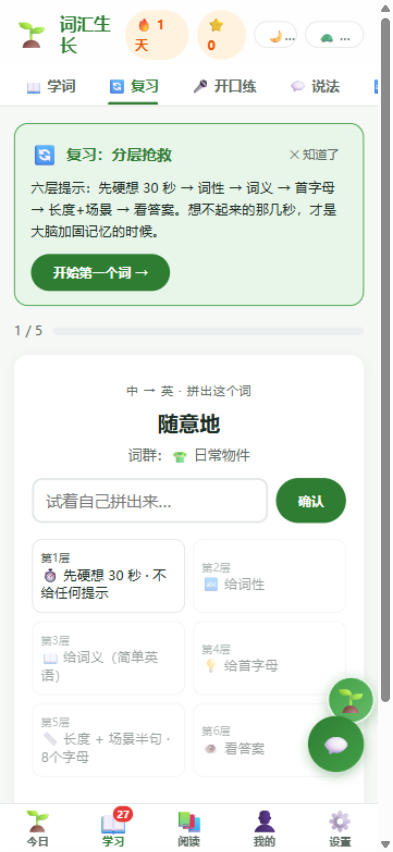
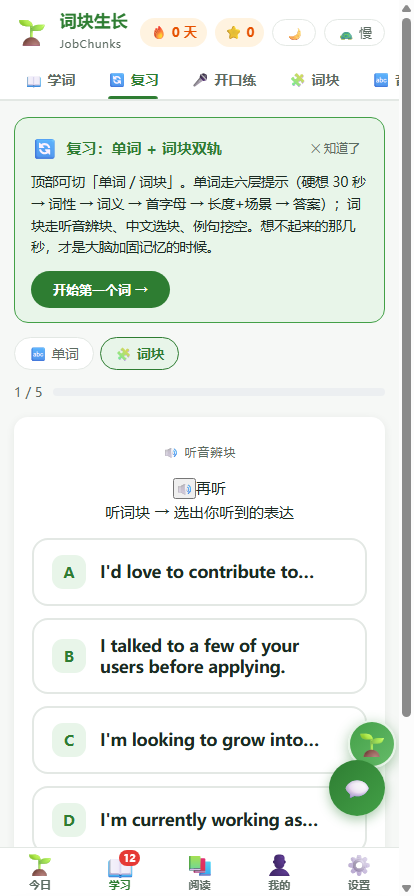
官网同步：更名词块生长 JobChunks + 新定位文案（JD分析器/AI面试官/词块库）+ 4张新UI实拍截图；应用内 onboard 副标语与 mock 词块超量兜底

diff --git a/www/index.html b/www/index.html
@@ -3,10 +3,10 @@
 <head>
   <meta charset="UTF-8">
   <meta name="viewport" content="width=device-width, initial-scale=1.0">
-  <title>词汇生长 Vocabulary Growth — 不背单词，让单词长出来</title>
-  <meta name="description" content="为想开口说英语的成人设计的词汇生长系统：学·复·用·读 四步闭环。分层抢救复习、开口练 AI 评分、真实阅读点词收词。数据全程留在你手机里，完全免费，无广告。">
-  <meta property="og:title" content="词汇生长 — 不背单词，让单词长出来">
-  <meta property="og:description" content="学·复·用·读 四步闭环，AI 学伴陪练，数据全程本地。安卓 APK / 浏览器即用。">
+  <title>词块生长 JobChunks — 不背单词，背词块 · 为下一份英语工作做准备</title>
+  <meta name="description" content="词块生长 JobChunks：以真实岗位JD为目标的职场英语训练系统。480 条职场词块（面试突围/跨境电商/出海业务）、JD 分析器、AI 模拟面试官、词块 SRS 复习。数据全程留在你手机里，完全免费，无广告。">
+  <meta property="og:title" content="词块生长 JobChunks — 不背单词，背词块">
+  <meta property="og:description" content="为下一份英语工作做准备：职场词块库 · JD 分析器 · AI 模拟面试官 · 词块 SRS 复习。安卓 APK / 浏览器即用，数据全程本地。">
   <meta property="og:type" content="website">
   <link rel="icon" type="image/x-icon" href="../favicon.ico">
   <link rel="icon" type="image/png" href="../assets/icons/icon-192.png">
@@ -16,7 +16,7 @@
   <!-- 顶部导航 -->
   <header class="nav">
     <div class="nav-inner">
-      <a class="logo" href="index.html"><span class="logo-ic">🌱</span> 词汇生长</a>
+      <a class="logo" href="index.html"><span class="logo-ic">🌱</span> 词块生长 JobChunks</a>
       <nav class="nav-links">
         <a href="#method">方法</a>
         <a href="#features">功能</a>
@@ -32,18 +32,18 @@
     <div class="wrap hero-grid">
       <div class="hero-tx">
         <div class="hero-badge">安卓 APK · 浏览器即用 · 完全免费</div>
-        <h1>不背单词，<br>让单词<span class="accent">长</span>出来</h1>
-        <p class="hero-sub">为想开口说英语的成人设计的词汇生长系统：学 · 复 · 用 · 读 四步闭环。每一次"想不起来"，都是大脑在加固记忆。</p>
+        <h1>不背单词，<br>背<span class="accent">词块</span>——为下一份英语工作做准备</h1>
+        <p class="hero-sub">词块生长 JobChunks：以真实招聘岗位为目标的职场英语训练系统。面试官问什么、邮件里写什么、会上说什么，就练什么——练到能听懂、看懂、说出来。</p>
         <div class="hero-cta">
           <a class="btn btn-primary btn-lg" href="download.html">📥 下载安卓应用</a>
           <a class="btn btn-outline btn-lg" href="../index.html" target="_blank" rel="noopener">🌐 浏览器直接打开</a>
         </div>
         <div class="hero-chips">
-          <span>✓ 数据本地</span><span>✓ 免费无广告</span><span>✓ 无需注册</span><span>✓ 8MB 轻量安装</span>
+          <span>✓ 数据本地</span><span>✓ 免费无广告</span><span>✓ 无需注册</span><span>✓ 480 职场词块</span>
         </div>
       </div>
       <div class="hero-img">
-        <img src="img/shot-today.png" alt="词汇生长今日仪表盘" loading="eager">
+        <img src="img/shot-chunks.png" alt="词块生长 JobChunks 职场词块库" loading="eager">
       </div>
     </div>
   </section>
@@ -51,12 +51,12 @@
   <!-- 2. 痛点 -->
   <section class="section pain">
     <div class="wrap">
-      <h2 class="sec-title">背单词的三座大山</h2>
+      <h2 class="sec-title">背了 8000 个单词，面试还是开不了口？</h2>
       <p class="sec-sub">如果这些你也经历过，那你找对地方了</p>
       <div class="grid-3">
-        <div class="card pain-card"><div class="pain-ic">😵</div><h3>背了就忘</h3><p>单词书背了 20 遍，见到还是"好像认识"。死记硬背对抗不了遗忘曲线。</p></div>
-        <div class="card pain-card"><div class="pain-ic">🤐</div><h3>认识不敢说</h3><p>阅读勉强过关，一开口就卡壳。词汇量是"认识"的，不是"会用"的。</p></div>
-        <div class="card pain-card"><div class="pain-ic">📉</div><h3>三天放弃</h3><p>打卡式产品靠愧疚感续命。没有正反馈的学习，注定坚持不下去。</p></div>
+        <div class="card pain-card"><div class="pain-ic">😵</div><h3>词是词，话是话</h3><p>单词书背了 20 遍，真到面试和邮件里，还是拼不出一句完整的地道表达。语言不是单词堆出来的，是词块装出来的。</p></div>
+        <div class="card pain-card"><div class="pain-ic">🤐</div><h3>英语面试发怵</h3><p>岗位写着"英语作为工作语言"，面试有英文口测——没人陪你练，也不知道练什么。对着镜子练一百遍，不如 AI 面试官陪你过五题。</p></div>
+        <div class="card pain-card"><div class="pain-ic">📉</div><h3>学了没方向</h3><p>不知道目标岗位到底需要什么英语。学的和考的脱节，越学越焦虑。其实答案就写在招聘 JD 里。</p></div>
       </div>
     </div>
   </section>
@@ -64,18 +64,18 @@
   <!-- 3. 方法论 -->
   <section class="section method" id="method">
     <div class="wrap">
-      <h2 class="sec-title">不背单词，那靠什么？</h2>
-      <p class="sec-sub">学 → 复 → 用 → 读，一个让单词自己扎根的闭环</p>
+      <h2 class="sec-title">方向 → 场景 → 任务 → 词块</h2>
+      <p class="sec-sub">以真实招聘画像为骨架，词块为原子的学习闭环：学 → 复 → 用 → 读</p>
       <div class="loop">
-        <div class="loop-step"><div class="loop-ic">📖</div><div class="loop-name">学</div><p>词群故事成串学，<br>图解主题贴近生活</p></div>
+        <div class="loop-step"><div class="loop-ic">🎯</div><div class="loop-name">定方向</div><p>面试突围 / 跨境电商 / 出海业务，<br>按目标岗位选赛道</p></div>
         <div class="loop-arrow">→</div>
-        <div class="loop-step"><div class="loop-ic">🔄</div><div class="loop-name">复</div><p>六层提示分层抢救，<br>想不起来的几秒在加固</p></div>
+        <div class="loop-step"><div class="loop-ic">🧩</div><div class="loop-name">背词块</div><p>场景里真实在用的多词表达，<br>例句+易错点+跟读，20条/场景</p></div>
         <div class="loop-arrow">→</div>
-        <div class="loop-step"><div class="loop-ic">🎤</div><div class="loop-name">用</div><p>造句、开口说出来，<br>AI 当场评分给纠正</p></div>
+        <div class="loop-step"><div class="loop-ic">🔄</div><div class="loop-name">练三关</div><p>听懂（听音辨块）·看懂（例句挖空）<br>·说出来（开口练评分）</p></div>
         <div class="loop-arrow">→</div>
-        <div class="loop-step"><div class="loop-ic">📚</div><div class="loop-name">读</div><p>真实书里遇见它，<br>点词收词带原句回炉</p></div>
+        <div class="loop-step"><div class="loop-ic">🎤</div><div class="loop-name">上考场</div><p>JD 分析器定制计划，<br>AI 面试官模拟实战出报告</p></div>
       </div>
-      <p class="method-note">整套产品的第一批学习数据，来自「英语自学建设系统」（Hermes）的真实自学资产——不是拍脑袋设计的功能清单。</p>
+      <p class="method-note">词块（Lexical Chunk）教学法有完整实证：词块记忆直接提升口语流利度与听力识别速度。整套产品的第一批学习数据来自「英语自学建设系统」（Hermes）真实自学资产——不是拍脑袋设计的功能清单。</p>
     </div>
   </section>
 
@@ -83,44 +83,44 @@
   <section class="section features" id="features">
     <div class="wrap">
       <h2 class="sec-title">核心功能</h2>
-      <p class="sec-sub">每一个功能，都对应闭环里的一环</p>
+      <p class="sec-sub">从选方向到拿 offer，每一环都有工具</p>
 
       <div class="feat-row">
         <div class="feat-tx">
-          <h3>🔄 六层分层抢救复习</h3>
-          <p>先硬想 30 秒 → 词性 → 词义 → 首字母 → 长度场景 → 答案，六层提示逐级解锁。按你"忘到第几层"安排下次复习时间——遗忘是数据，不是失败。还带听音辨词模式，耳朵也一起练。</p>
+          <h3>🎯 JD 分析器 · 贴 JD 出学习计划</h3>
+          <p>把目标岗位的 JD 贴进来，AI 拆出 10 条高频词块和 3 道面试考题，生成专属学习计划——"以招聘为目标"不是口号，是产品机制。词块一键收进说法库，配合造句练习形成闭环。</p>
         </div>
-        <div class="feat-img"><img src="img/shot-review.png" alt="六层分层抢救复习界面" loading="lazy"></div>
+        <div class="feat-img"><img src="img/shot-chunks.png" alt="JD 分析器与职场词块库" loading="lazy"></div>
       </div>
 
       <div class="feat-row rev">
         <div class="feat-tx">
-          <h3>🎤 开口练 · AI 当场评分</h3>
-          <p>四种练法：造句、句型填空、关键词造句、开口说。提交立刻打分，AI 给出更地道的说法和要点纠正——写错也是生产模式，敢说就赢了一半。</p>
+          <h3>🎤 AI 模拟面试官 · 5 题实战出报告</h3>
+          <p>5 道真题逐题作答，AI 面试官按切题度、词块使用、地道度打分点评，还给你"更地道的说法"。答完生成能力报告——面试前练三轮，上场不慌。你的 JD 考题会自动插入面试流程。</p>
         </div>
-        <div class="feat-img"><img src="img/shot-workshop.png" alt="开口练四种练法界面" loading="lazy"></div>
+        <div class="feat-img"><img src="img/shot-mock.png" alt="AI 模拟面试官界面" loading="lazy"></div>
       </div>
 
       <div class="feat-row">
         <div class="feat-tx">
-          <h3>📚 真实阅读 · 点词收词</h3>
-          <p>内置书虫系列等英文书，长按生词即出词义、发音和整句例句，一键收进词库带着原句复习。在真实语境里遇见的单词，才真正属于你。</p>
+          <h3>🧩 职场词块库 · 三方向 24 场景</h3>
+          <p>面试突围、跨境电商、出海业务三条赛道，每个场景 20 条真实岗位在用的词块：例句、中文、易错点、双发音。自测模式遮住例句，看中文回想——先听懂看懂，再说出来。</p>
         </div>
-        <div class="feat-img"><img src="img/shot-reader.png" alt="英文阅读器界面" loading="lazy"></div>
+        <div class="feat-img"><img src="img/shot-review.png" alt="词块复习界面" loading="lazy"></div>
       </div>
 
       <div class="feat-row rev">
         <div class="feat-tx">
-          <h3>🎯 今日仪表盘 · 一眼知道做什么</h3>
-          <p>今日目标四件事打卡、今日主题词群、今日一句跟读——每天 10 分钟，三件事加一次阅读就够。不靠打卡绑架，靠正反馈续命。</p>
+          <h3>🔄 单词+词块双轨 SRS 复习</h3>
+          <p>单词走六层分层抢救（硬想 30 秒 → 词性 → 词义 → 首字母 → 长度场景 → 答案），词块走听音辨块、中文选块、例句挖空三题型。连绿间隔自动拉长（3→7→14→30 天），记住的不打扰，忘了的天天见。</p>
         </div>
-        <div class="feat-img"><img src="img/shot-today.png" alt="今日目标仪表盘" loading="lazy"></div>
+        <div class="feat-img"><img src="img/shot-today.png" alt="复习与今日仪表盘" loading="lazy"></div>
       </div>
 
       <div class="grid-3 feat-more">
-        <div class="card"><div class="f-ic">🌱</div><h3>AI 学伴小苗</h3><p>免费大模型驱动：教词、陪聊、情景对话，还能给你出每周学习周报和学习计划。</p></div>
-        <div class="card"><div class="f-ic">📊</div><h3>词汇量测试</h3><p>2 分钟 30 题，基于牛津分级词库估算你的真实词汇量，乱猜可骗不过它。</p></div>
-        <div class="card"><div class="f-ic">💬</div><h3>说法库 + 48 音标</h3><p>"你想说的话 → 老外的说法"积累库，外加 48 音标口诀——发音地基一起打。</p></div>
+        <div class="card"><div class="f-ic">🎤</div><h3>开口练 · AI 当场评分</h3><p>造句、填空、关键词造句、开口说四种练法，提交立刻打分纠错——写错也是生产模式。</p></div>
+        <div class="card"><div class="f-ic">📚</div><h3>书虫阅读 · 点词收词</h3><p>137 册书虫分级读物免费下载，长按生词出词义发音，一键收进词库带原句回炉。</p></div>
+        <div class="card"><div class="f-ic">🌱</div><h3>AI 学伴 + 音标 + 说法库</h3><p>免费大模型陪聊教词、48 音标口诀打地基、"你想说的话→老外的说法"积累库。</p></div>
       </div>
     </div>
   </section>
@@ -143,10 +143,11 @@
   <section class="section faq" id="faq">
     <div class="wrap faq-wrap">
       <h2 class="sec-title">常见问题</h2>
-      <details><summary>真的完全免费吗？</summary><p>是。学习、复习、阅读、开口练全部免费，无广告。AI 学伴每天有免费额度，超出后可继续用基础功能。</p></details>
-      <details><summary>换手机 / 卸载后数据会丢吗？</summary><p>数据保存在你手机本地。覆盖安装新版本不会丢数据；换手机前用「设置 → 数据管理 → 导出备份」导出 JSON 文件，在新手机导入即可。</p></details>
-      <details><summary>需要一直联网吗？</summary><p>不用。词库、复习、阅读全部离线可用；联网只在 AI 学伴对话、发音评分和检查更新时需要。</p></details>
-      <details><summary>和百词斩、多邻国有什么区别？</summary><p>它们解决"认识单词"，词汇生长解决"会用单词"：每个词都要经过开口产出和真实阅读检验，AI 当场纠错。方法不同，目标不同。</p></details>
+      <details><summary>真的完全免费吗？</summary><p>是。词块库、复习、阅读、开口练、JD 分析、模拟面试全部免费可用，无广告。AI 功能每天有免费额度，解锁后不限。</p></details>
+      <details><summary>换手机 / 卸载后数据会丢吗？</summary><p>数据保存在你手机本地。覆盖安装新版本不会丢数据；换手机前用「设置 → 数据 → 导出备份」导出 JSON 文件，在新手机导入即可。</p></details>
+      <details><summary>需要一直联网吗？</summary><p>不用。词库、复习、阅读全部离线可用；联网只在 AI 功能、发音评分和检查更新时需要。</p></details>
+      <details><summary>和百词斩、多邻国有什么区别？</summary><p>它们解决"认识单词"，词块生长解决"用英语找到并做好一份工作"：以真实岗位 JD 为目标，词块为原子，AI 面试官验收——学的就是考的。</p></details>
+      <details><summary>英语基础很差能用吗？</summary><p>能。词块标注了 CEFR 等级（A2-C1），从简单表达起步；内置 4179 牛津分级词库随时补单词零件。先跟读、再自测、后实战，循序渐进。</p></details>
       <details><summary>以后更新麻烦吗？</summary><p>不麻烦。打开应用时自动在应用内静默完成更新（有进度条），全程不用跳出应用，数据不会丢。</p></details>
     </div>
   </section>
@@ -154,8 +155,8 @@
   <!-- 7. 尾部行动区 -->
   <section class="section final-cta">
     <div class="wrap final-inner">
-      <h2>今天，种下你的第一批词 🌱</h2>
-      <p>每天 10 分钟：复习 5 词 · 造句 1 句 · 开口 1 次 · 阅读 10 分钟</p>
+      <h2>今天，为下一份工作攒第一批词块 🧩</h2>
+      <p>每天 10 分钟：复习 5 词块 · 造句 1 句 · 开口 1 次 · 阅读 10 分钟</p>
       <div class="hero-cta center">
         <a class="btn btn-light btn-lg" href="download.html">📥 下载安卓应用</a>
         <a class="btn btn-outline-light btn-lg" href="../index.html" target="_blank" rel="noopener">🌐 浏览器直接打开</a>
@@ -166,7 +167,7 @@
   <!-- 8. 页脚 -->
   <footer class="footer">
     <div class="wrap footer-inner">
-      <p><b>🌱 词汇生长</b> · 不背单词，让单词长出来</p>
+      <p><b>🌱 词块生长 JobChunks</b> · 不背单词，背词块 · 为下一份英语工作做准备</p>
       <p>学习内容源自 OB「英语自学建设系统」(Hermes) 真实学习资产</p>
       <p>苏不倦出品 · 联系微信：<b>kz910124</b> · 反馈建议在应用内「💬 反馈」提交</p>
     </div>

diff --git a/app/js/app.js b/app/js/app.js
@@ -1707,6 +1707,7 @@ var VG_APP = (function () {
     ], { max: 700, temp: 0.4 }).then(function (res) {
       var fb = parseJdJson(res);
       if (!fb || typeof fb.score !== 'number') throw new Error('bad');
+      if (fb.chunks && fb.chunks.length) fb.chunks = fb.chunks.slice(0, 3); /* 模型可能超量返回，UI 最多展示 3 个 */
       mk.results.push({ q: q.q, score: fb.score, feedback: fb.feedback || '', better: fb.better || '', chunks: fb.chunks || [], skipped: false });
       mk.busy = false;
       mockRenderFeedback(fb);
@@ -3598,7 +3599,7 @@ var VG_APP = (function () {
       '<div class="onboard-card">' +
       '<img src="assets/icons/icon-192.png" alt="苏不倦" class="onboard-avatar">' +
       '<h2>🌱 欢迎来到词块生长</h2>' +
-      '<p class="onboard-sub">不背单词，让单词长出来</p>' +
+      '<p class="onboard-sub">不背单词，背词块</p>' +
       '<div class="onboard-step"><span class="os-ic">1⃣</span><div><b>学 → 复 → 用</b><br>' +
       '词群里学词，分层抢救复习，然后在「开口练」说出来、造句用掉——每次 10 分钟就够。</div></div>' +
       '<div class="onboard-step"><span class="os-ic">2⃣</span><div><b>词库已经备好</b><br>' +

diff --git a/www/site.css b/www/site.css
@@ -1,4 +1,4 @@
-/* 词汇生长 · 官方网站样式（延续产品绿 + 米黄基因） */
+/* 词块生长 JobChunks · 官方网站样式（延续产品绿 + 米黄基因） */
 :root {
   --green: #2E7D32; --green-mid: #43A047; --green-soft: #E8F5E9;
   --bg: #FAF7F0; --card: #ffffff; --ink: #1B2B22; --ink-2: #5A6B60;
